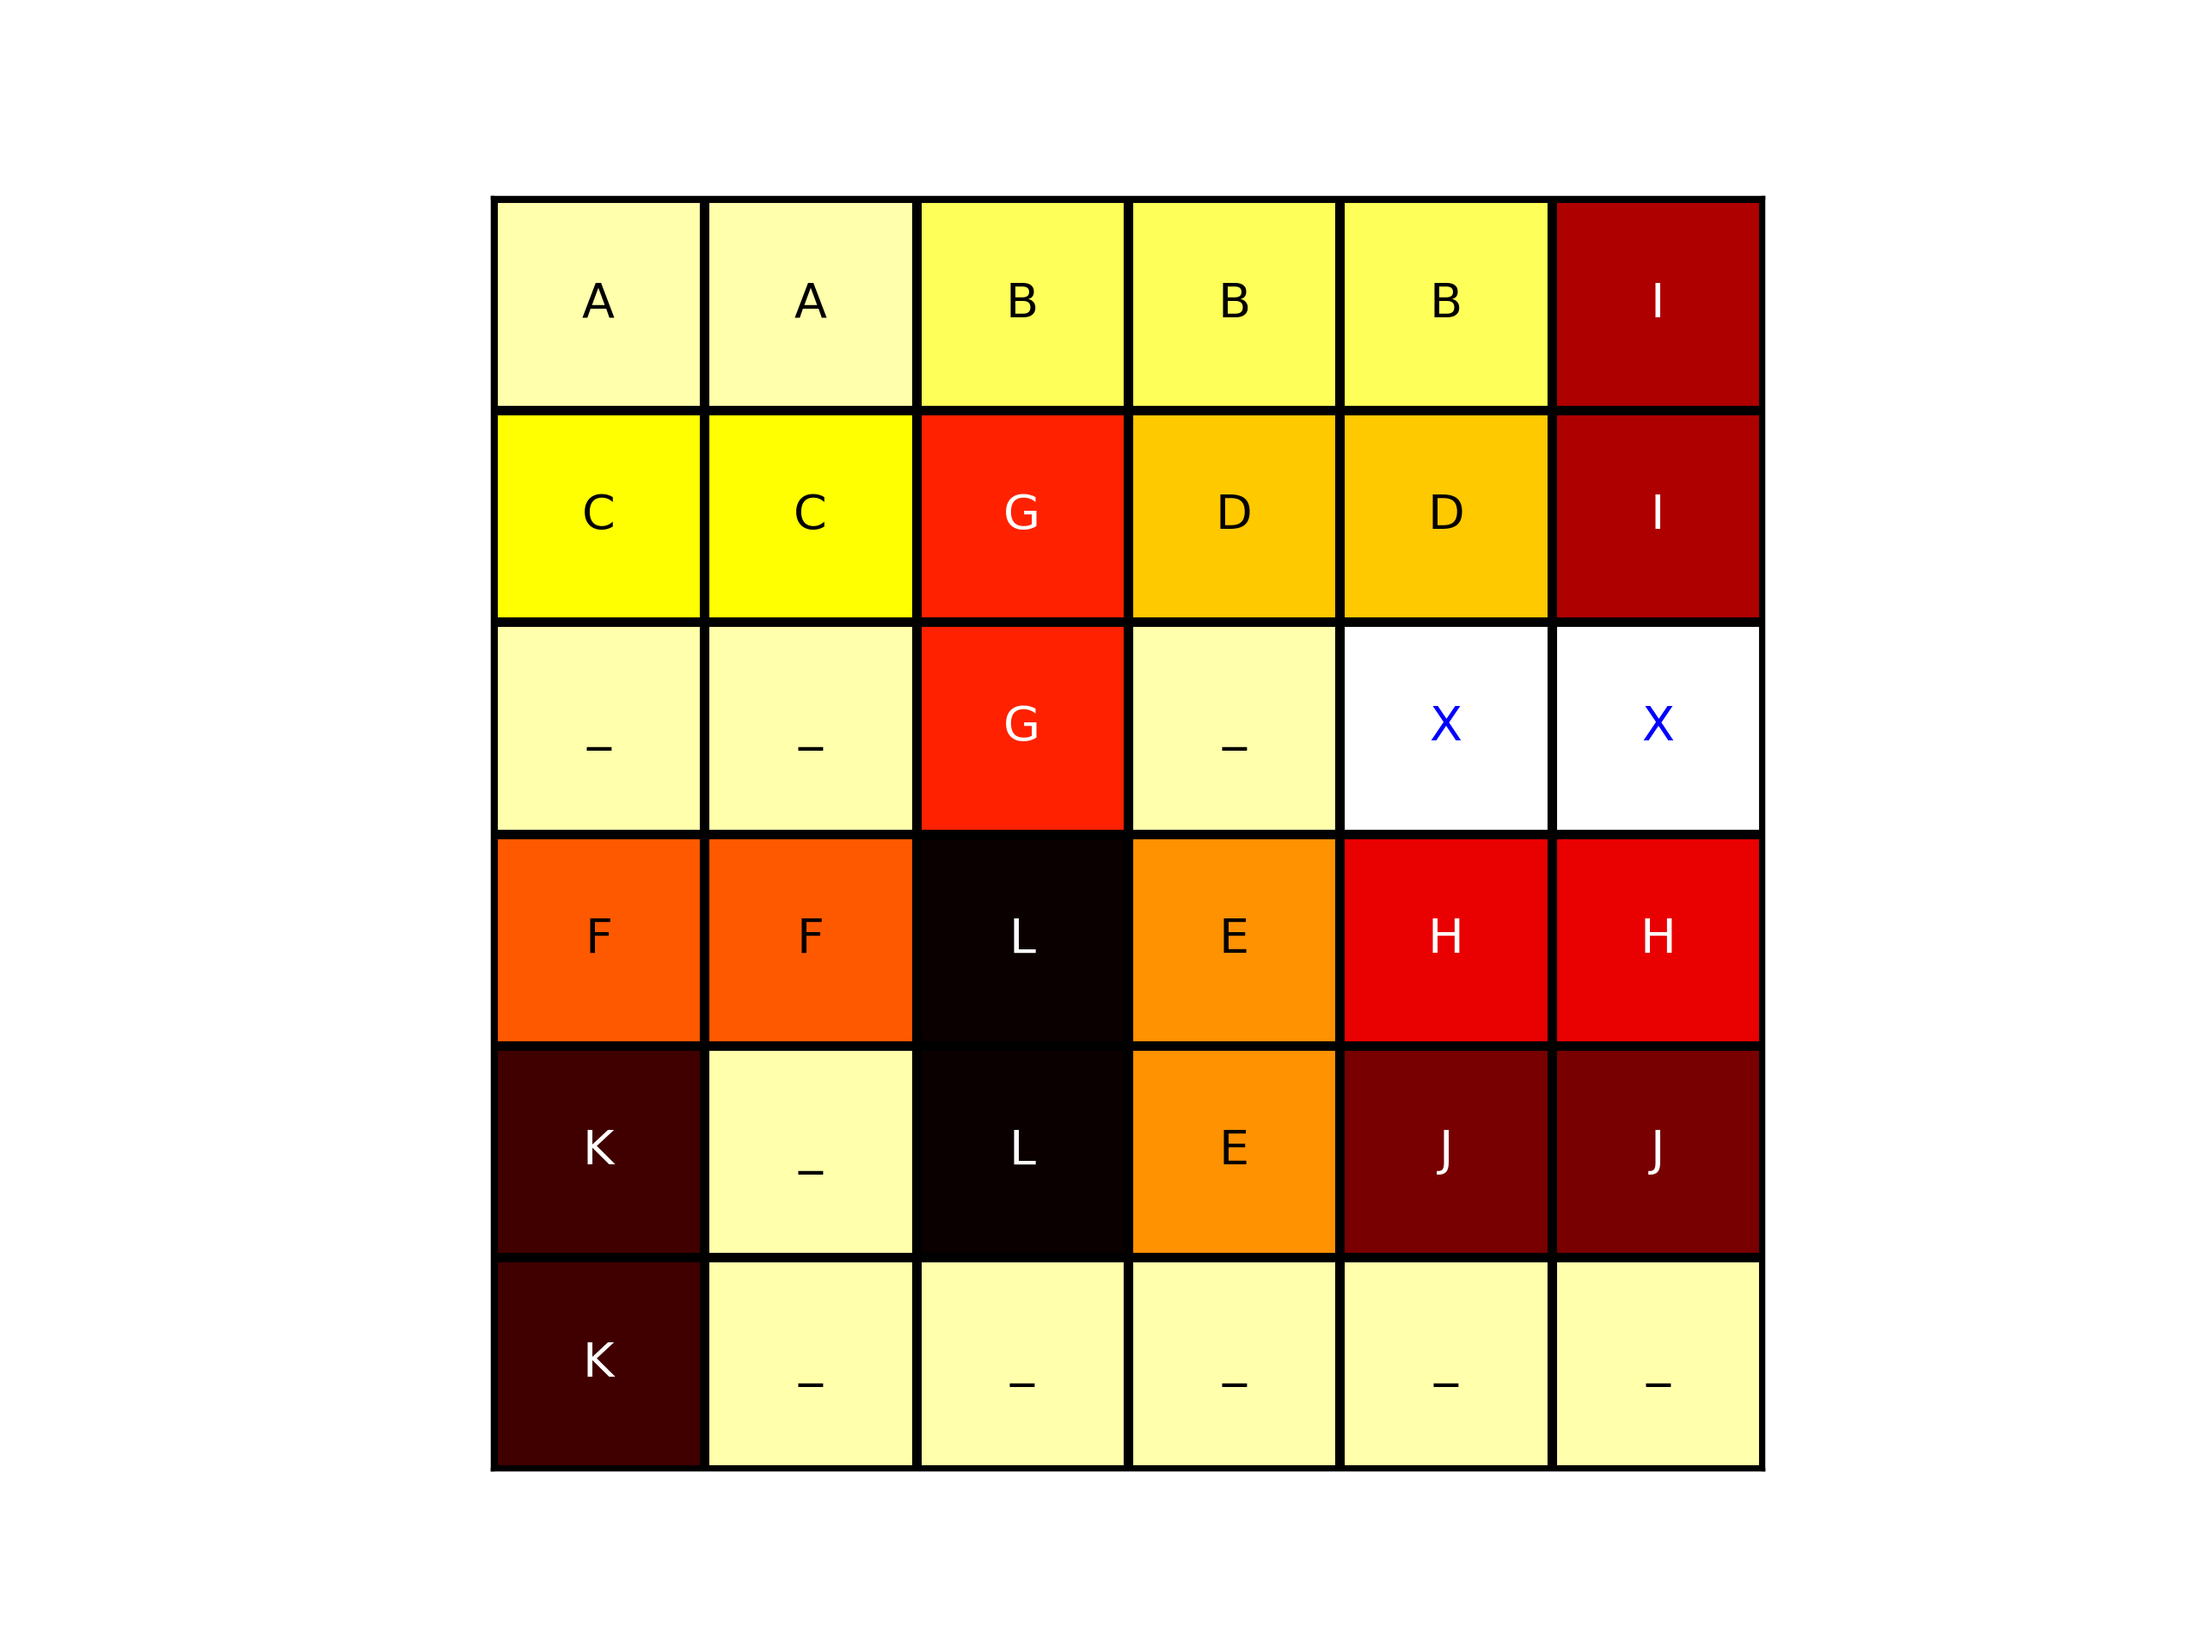
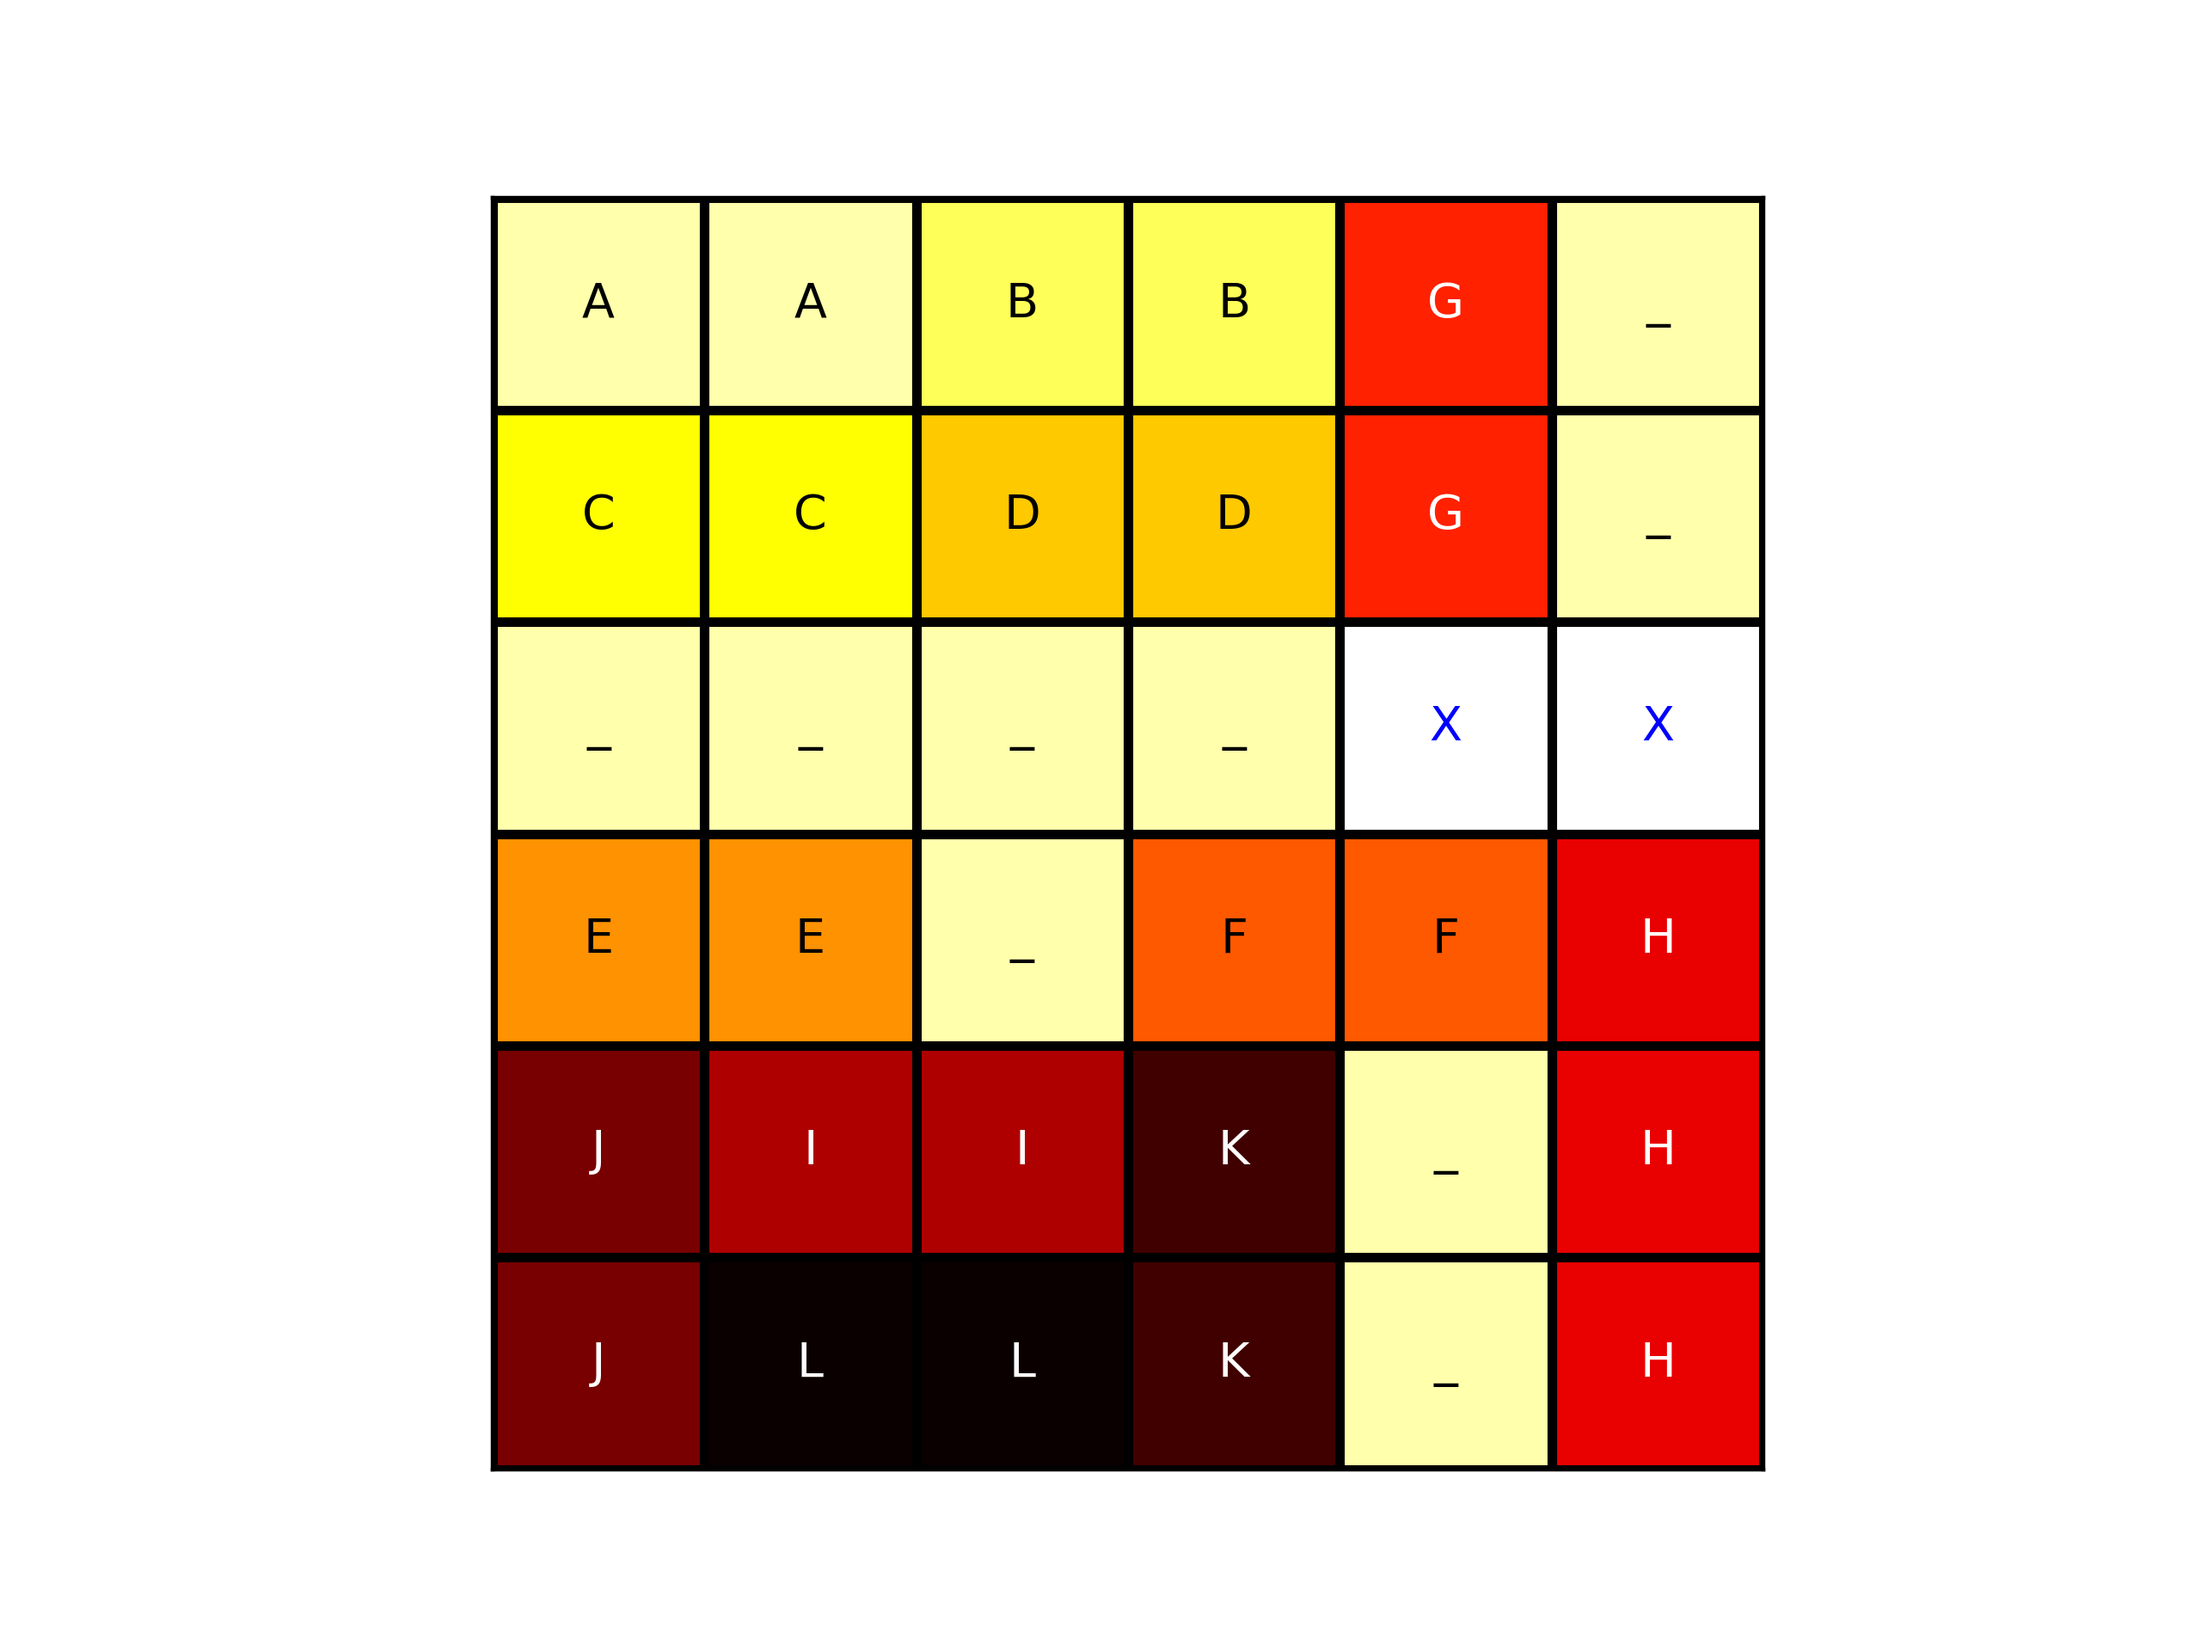
priority

Changed region(s): [[0.2188, 0.25, 0.8125, 0.9062], [0.5938, 0.125, 0.8125, 0.375]]

diff --git a/code/algorithms/priority.py b/code/algorithms/priority.py
@@ -15,41 +15,22 @@ import queue
 
 def Priority(items): 
     """A function that uses a Priority Cue search, which prioritizes the states with the most possible moves.""" 
-
-    possible_moves = [board.pos_moves() for board in items]
-
-#    # Count all items within the lists in the values of the possible_moves dict https://www.geeksforgeeks.org/python-count-number-of-items-in-a-dictionary-value-that-is-a-list/ 
-#     count_moves = 0 
-#     for x in possible_moves: 
-#         if isinstance(possible_moves[x], list): 
-#             count_moves += len(possible_moves[x]) 
-#     print(count_moves) 
-
-#     #items = [[board, board.pos_moves()] for board in items]
-#     items = [[board, count_moves] for board in items] #count_moves kan niet zo worden geitereerd...? 
-#     sorted_items = sorted(items, key=lambda x: x[1], reverse=True)
-#     sorted_items = [item[0] for item in sorted_items]
+ 
+    # total_moves = 0
+    # count = 0
     items_tuple = []
     for item in items:
-        total_moves = sum(len(car) for moves in item.pos_moves().values() for car in moves.values()) 
-        # eerst wordt moves uit item.pos_moves() gepakt met for moves in item.pos_moves().values(), dus moves = dict([moves van auto a], [moves van auto b])
-        # daarna wordt voor elke moves de car eruit gepakt, waardoor bijv. car = [-1, 1, 2], dus dan de som van alle lengtes van de cars
-        # (dit heb ik neit zelf bedacht maar van internet geplukt hahaha)
-        items_tuple.append([item, sum()])
-        # dus items_tuple wordt een lijst met de state en dan het aantal moves [[state, 4], [state, 8], etc]
+        total_moves = sum(len(moves) for moves in item.pos_moves().values())
 
-    sorted_list = sorted(items_tuple, key=lambda x: x[1], reverse=True) # sorteert de lijst op het tweede element in de tuple, dus het aantal mogelijke moves
+        items_tuple.append([item, total_moves])
 
-    # Prioritize https://www.geeksforgeeks.org/priority-queue-in-python/ 
-    # try: 
-    #     max = 0 
-    #     for i in range(len(possible_moves)): 
-    #         if possible_moves[i] > possible_moves[max]:
-    #             max = i 
-    #     item = possible_moves[max]
-    #     del possible_moves[max]
-    #     return item
-    # except IndexError:
-    #     print()
-    #     exit()
-            
+    sorted_items = sorted(items_tuple, key=lambda x: x[1], reverse=True) # sorteert de lijst op het tweede element in de tuple, dus het aantal mogelijke moves
+    sorted_list = [item[0] for item in sorted_items]
+
+    return sorted_list
+
+    # item.pos_moves().values() geeft per state per vehicle een lijst met alle possible moves
+    # eerst wordt moves uit item.pos_moves() gepakt met for moves in item.pos_moves().values(), dus moves = dict([moves van auto a], [moves van auto b])
+    # daarna wordt voor elke moves de car eruit gepakt, waardoor bijv. car = [-1, 1, 2], dus dan de som van alle lengtes van de cars
+    # dus items_tuple wordt een lijst met de state en dan het aantal moves [[state, 4], [state, 8], etc]
+

diff --git a/code/algorithms/BFS.py b/code/algorithms/BFS.py
@@ -9,6 +9,7 @@
 
 from ..classes.board import Board
 from .beam import Beam
+from .priority import Priority
 import queue
 import copy
 
@@ -31,7 +32,9 @@ def BFS(board, beam, priority, max_depth = 10):
                 BFS_queue = queue.Queue()
                 [BFS_queue.put(item) for item in beamed_list]
             if priority:
-                Priority(BFS_queue.queue)
+                priority_list = Priority(list(BFS_queue.queue))
+                BFS_queue = queue.Queue()
+                [BFS_queue.put(item) for item in priority_list]
             move = len(state.moves)
 
         if not state.win():
